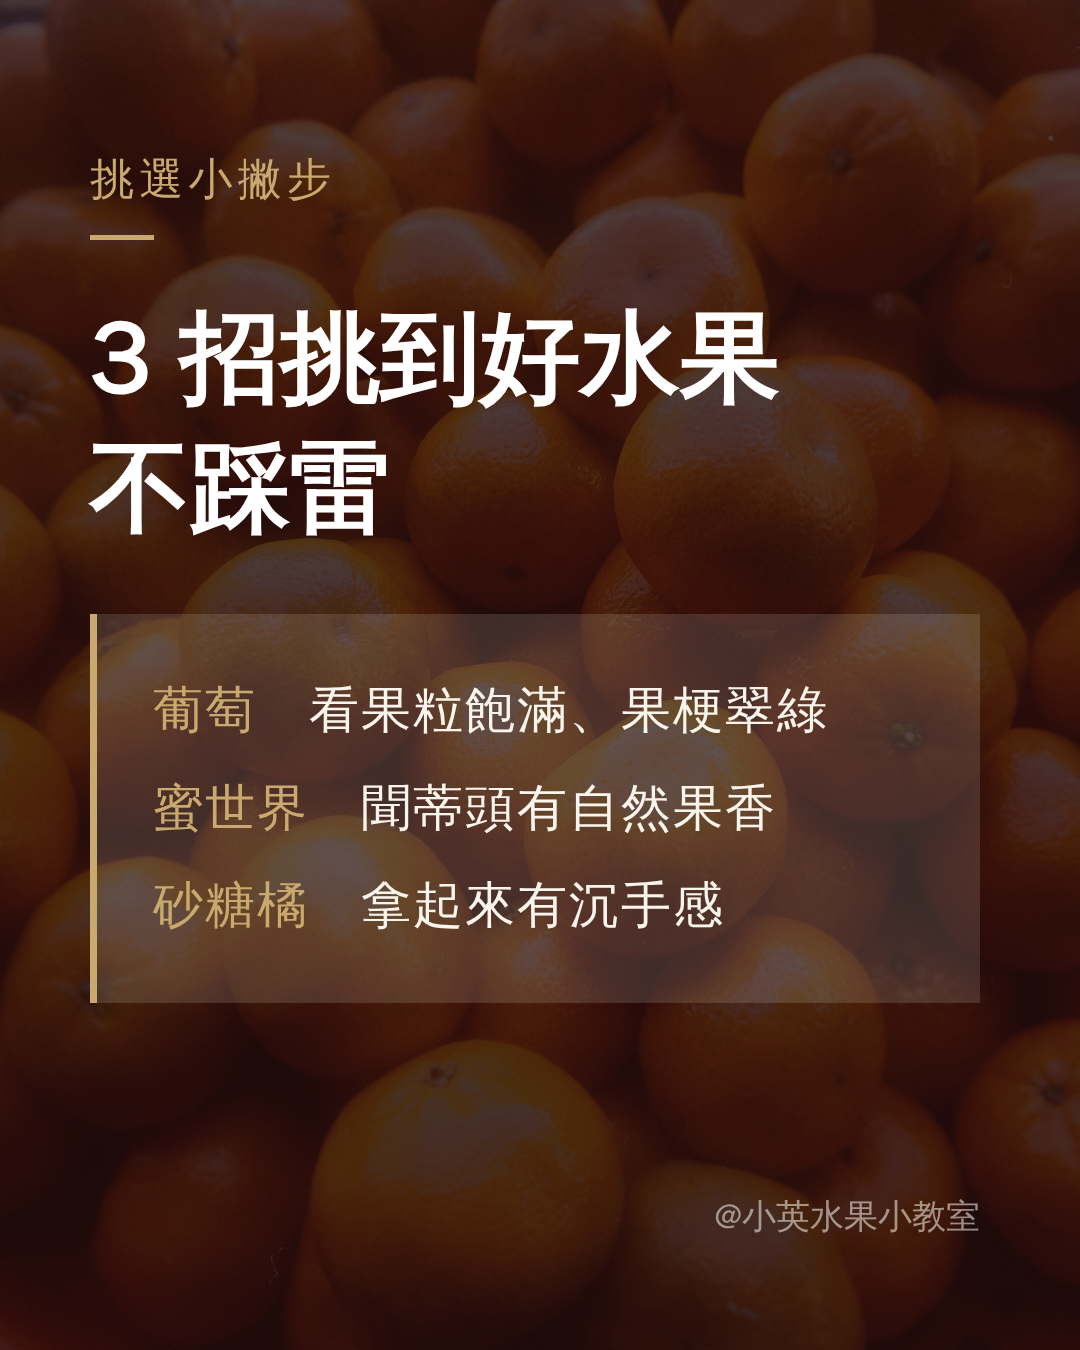
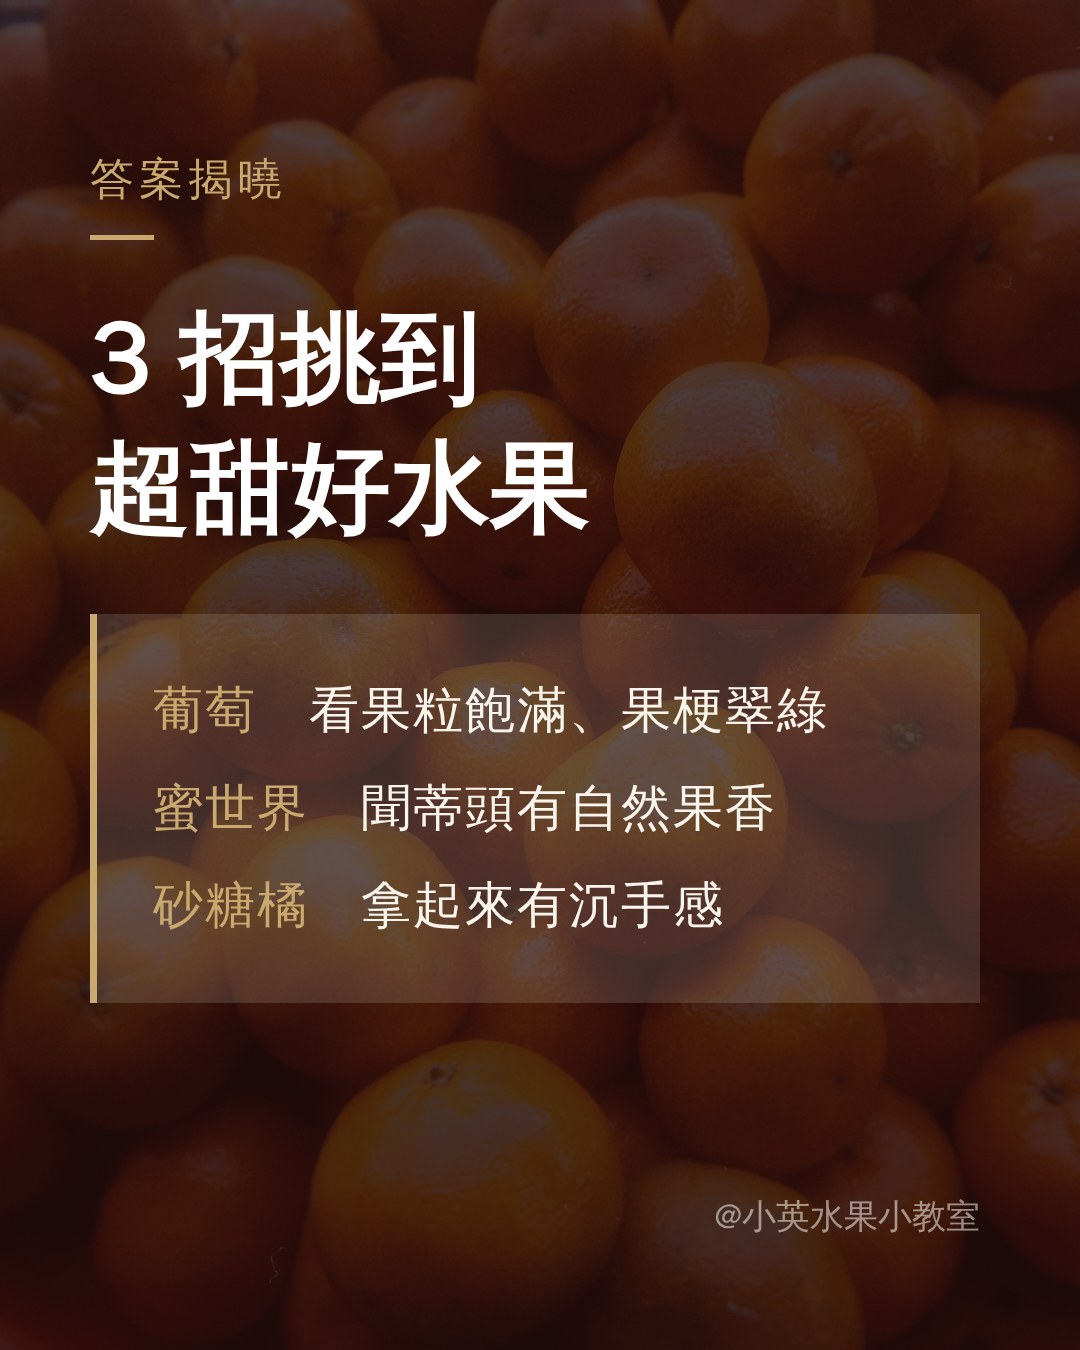
IG carousel: add curiosity-gap hook to cover slide
Claude-Session: https://claude.ai/code/session_01PL7HGywDrPUdsLBcZeJFu6

Changed region(s): [[0.0917, 0.2178, 0.7333, 0.4044], [0.0917, 0.0933, 0.3056, 0.1556]]

diff --git a/ig/carousel.html b/ig/carousel.html
@@ -18,14 +18,17 @@ h2{font-size:100px;line-height:1.3;font-weight:900;color:#fff}
 .foot{margin-top:auto;display:flex;justify-content:space-between;align-items:flex-end;font-size:34px;color:rgba(250,245,236,.55)}
 .foot .gold{color:var(--gold);font-size:44px;font-weight:700}
 .center{justify-content:center}
-.big{font-size:132px}
+.big{font-size:118px;line-height:1.28}
+em{font-style:normal;color:var(--gold)}
+.swipe{align-self:flex-start;margin-top:56px;border:3px solid var(--gold);color:var(--gold);padding:16px 40px;font-size:42px;font-weight:700;letter-spacing:.1em;border-radius:60px}
+.swipe span{margin-left:12px}
 .qr{width:280px;height:280px;border:3px dashed var(--gold);display:flex;align-items:center;justify-content:center;color:var(--gold);font-size:32px;margin-top:50px}
 </style></head><body>
 <script>
 // ===== 每週只需改這裡 =====
 const HANDLE = '@小英水果小教室';
 const CFG = {
-  cover: {label:'小英嚴選', title:['這週最推薦','3 種水果'], sub:'小英親自挑，北高雄在地配送', bg:'photos/grape.jpg'},
+  cover: {label:'小英水果小教室', title:['同樣是水果','為什麼有的','<em>超甜</em>有的<em>很酸</em>？'], sub:'答案＋這週 3 種必買，往右滑看', swipe:'滑動看答案', bg:'photos/grape.jpg'},
   fruits: [
     {label:'No.1 韓國', name:['粒粒飽滿','韓國麝香葡萄'], sub:'一顆一顆都飽滿', bg:'photos/grape.jpg',
      points:['果粒圓潤飽滿','一口一顆很過癮','適合送禮、全家分食'], price:''},
@@ -34,7 +37,7 @@ const CFG = {
     {label:'No.3 當季', name:['酸甜又多汁','砂糖橘'], sub:'小顆一口接一口', bg:'photos/mandarin.jpg',
      points:['酸甜平衡','汁多好剝','適合日常、小朋友點心'], price:''}
   ],
-  tip: {label:'挑選小撇步', title:['3 招挑到好水果','不踩雷'], bg:'photos/mandarin.jpg',
+  tip: {label:'答案揭曉', title:['3 招挑到','超甜好水果'], bg:'photos/mandarin.jpg',
         points:['<b>葡萄</b>　看果粒飽滿、果梗翠綠','<b>蜜世界</b>　聞蒂頭有自然果香','<b>砂糖橘</b>　拿起來有沉手感']},
   cta: {label:'想預訂？', title:['點主頁連結','加 LINE 預訂'], sub:'初一、十五前請提早預訂', bg:'photos/grape.jpg'}
 };
@@ -45,7 +48,8 @@ const foot = (l) => `<div class="foot"><span>${l||''}</span><span>${HANDLE}</spa
 const S = [];
 const c=CFG.cover;
 S.push(`<div class="slide" style="${bg(c.bg)}"><div class="label serif">${c.label}</div><div class="bar"></div>
- <h2 class="serif big">${c.title[0]}<br>${c.title[1]}</h2><div class="sub">${c.sub}</div>${foot('英仔水果 ・ 北高雄')}</div>`);
+ <h2 class="serif big">${c.title.join('<br>')}</h2><div class="sub">${c.sub}</div>
+ <div class="swipe">${c.swipe} <span>→</span></div>${foot('英仔水果 ・ 北高雄')}</div>`);
 CFG.fruits.forEach(f=>S.push(`<div class="slide" style="${bg(f.bg)}"><div class="label serif">${f.label}</div><div class="bar"></div>
  <h2 class="serif">${f.name[0]}<br>${f.name[1]}</h2><div class="sub">${f.sub}</div>
  <div class="box">${f.points.join('<br>')}</div>${f.price?`<div class="price">${f.price}</div>`:''}${foot('')}</div>`));
